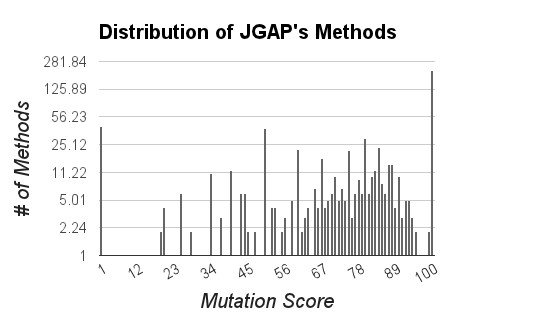
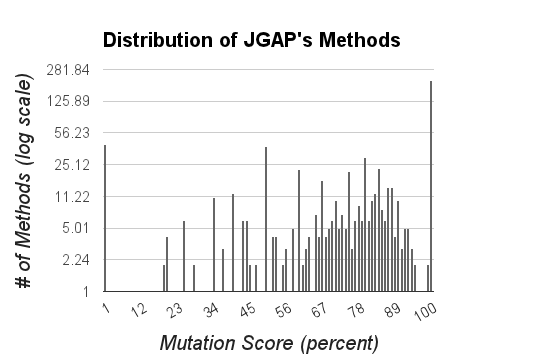
Address more comments on submission
Add:
 * Log scale and percent to distribution figures

Refactor:
 * References (months in proccedings, shorten words, etc...)
 * LaTeX file to address minor comments (rewordings, stuff not needed anymore)

diff --git a/doc/RAISE2012/RAISE2012.tex b/doc/RAISE2012/RAISE2012.tex
@@ -27,7 +27,7 @@ Oshawa, Ontario, Canada\\
 
 
 \begin{abstract}
-Traditionally mutation testing has been used to evaluate the effectiveness of test suites and provide confidence in the testing process. Mutation testing involves the creation of many versions of a program -- each with a single syntactic fault. A test suite is evaluated against these program versions (mutants) in order to determine the percentage of mutants a test suite is able to identify (mutation score). A major drawback of mutation testing is that even a small program may yield thousands of mutants and can potentially make the process cost prohibitive. To improve the performance and reduce the cost of mutation testing, we propose a machine learning approach to predict the mutation score based on source code and test suite metrics.
+Mutation testing has traditionally been used to evaluate the effectiveness of test suites and provide confidence in the testing process. Mutation testing involves the creation of many versions of a program each with a single syntactic fault. A test suite is evaluated against these program versions (mutants) in order to determine the percentage of mutants a test suite is able to identify (mutation score). A major drawback of mutation testing is that even a small program may yield thousands of mutants and can potentially make the process cost prohibitive. To improve the performance and reduce the cost of mutation testing, we propose a machine learning approach to predict mutation score based on a combination of source code and test suite metrics.
 \end{abstract}
 
 
@@ -36,49 +36,48 @@ Traditionally mutation testing has been used to evaluate the effectiveness of te
 
 \section{Introduction}
 \label{sec:introduction}
-Mutation testing traditionally has been used as a coverage technique to evaluate the effectiveness of test suites and provide confidence in the testing process~\cite{DLS78, OAL06, JH10}. For over 30 years, mutation has been applied to software written in programming languages including C~\cite{DM96, JH08}, Fortran~\cite{KO91}, Java~\cite{MKO02, BCD06} and more. Furthermore, mutation testing has also been applied to other non-programming artifacts such as formal specification languages~\cite{ABM98} and spreadsheets~\cite{AE09}.
+Mutation testing has traditionally been used as a coverage technique to evaluate the effectiveness of test suites and provide confidence in the testing process~\cite{DLS78, OAL06, JH10}. For over 30 years, mutation testing has been applied to software written in programming languages including C~\cite{DM96, JH08}, Fortran~\cite{KO91} and Java~\cite{MKO02, BCD06}. Furthermore, mutation testing has also been applied to non-programming artifacts such as formal specification languages~\cite{ABM98} and spreadsheets~\cite{AE09}.
 
 Mutation testing uses a set of \emph{mutation operators} to generate faulty versions of a program called \emph{mutants}. Mutation operators are created based on an existing fault taxonomy and each operator usually corresponds to a specific type of fault. A mutant is identical to the original program except that it contains a single mutation -- ``\emph{a single syntactic change that is made to a program statement.}''~\cite{KO91}. A test suite is evaluated against a set of mutants to determine the \emph{mutation score}. The mutation score is defined as the percentage of non-equivalent mutants that are detected (\emph{killed}) by a test suite. The better a test suite, the more mutants will be killed and thus the higher the mutation score.
 
-A major drawback of mutation testing is that even a small program may yield hundreds or thousands of mutants potentially making the process cost prohibitive in comparison to other coverage metrics such as statement or branch coverage. Several approaches have been proposed in the literature to improve mutation testing performance and scalability~\cite{OU00}:
+A major drawback of mutation testing is that even a small program may yield hundreds or thousands of mutants -- potentially making the process cost prohibitive in comparison to other coverage metrics such as statement or branch coverage. Three approaches have been proposed in the literature to improve mutation testing performance and scalability~\cite{OU00}:
 
-\textbf{``Do fewer'' approach:} this category of optimizations aim to decrease the computational cost of mutation testing by reducing the number of mutants that a test suite is evaluated against. The most popular example from this category is selective mutation -- the use of a subset of mutation operators that have been empirically shown to be as effective as using an entire set of operators~\cite{OLR+96}. Another example of a ``do fewer'' approach is to randomly sample mutants~\cite{Won93}.
+\begin{enumerate}
+  \item \textbf{``Do fewer'' approach:} this category of optimizations aim to decrease the computational cost of mutation testing by reducing the number of mutants that a test suite is evaluated against. The most popular example from this category is selective mutation -- the use of a subset of mutation operators that have been empirically shown to be as effective as using an entire set of operators~\cite{OLR+96}. Another example of a ``do fewer'' approach is to randomly sample mutants~\cite{Won93}.
 
-\textbf{``Do smarter'' approach:} this category of optimizations aim to decrease the cost of mutation testing by improving the actual mutation testing technique. For example, weak mutation \emph{``...is an approximation technique that compares the internal states of mutant and original program immediately after execution of the mutated portion of the code (instead of comparing the program output)''}~\cite{OU00}.
+  \item \textbf{``Do smarter'' approach:} this category of optimizations aim to decrease the cost of mutation testing by improving the actual mutation testing technique. For example, weak mutation \emph{``...is an approximation technique that compares the internal states of mutant and original program immediately after execution of the mutated portion of the code (instead of comparing the program output)''}~\cite{OU00}.
 
-\textbf{``Do faster'' approach:} this category of optimizations aim to reduce the cost of mutation testing by focusing on performance. For example, one ``do faster'' approach improves compilation time using schema-based mutation -- \emph{``...encodes all mutations into one source level program...''}~\cite{OU00}.
+  \item \textbf{``Do faster'' approach:} this category of optimizations aim to reduce the cost of mutation testing by focusing on performance. For example, one ``do faster'' approach improves compilation time using schema-based mutation -- \emph{``...encodes all mutations into one source level program...''}~\cite{OU00}.
+\end{enumerate}
 
-As an alternative to the above techniques, we propose a ``do fewer and smarter'' technique for mutation testing at a unit level.  When mutation testing is used for the creation or improvement of a test suite,  the test suite will often have to be applied to the mutants in an iterative fashion as tests are added, removed and modified. Furthermore, the effects on the mutation score after each iteration have to be observed. We propose to replace at least some of these intermediate test suite evaluations on mutants with mutation score prediction and thus decrease the number of mutants that have to be evaluated using a test suite. Our proposed approach uses machine learning to predict the mutation score based on a combination of source code and test suite metrics of the code unit under test.
+As an alternative to the above approaches, we propose a ``do fewer and smarter'' technique for mutation testing at the unit level.  When mutation testing is used for the creation or improvement of a test suite,  the test suite will often have to be applied to the mutants in an iterative fashion as tests are added, removed and modified. Furthermore, the effects on the mutation score after each iteration have to be observed. We propose to replace at least some of the mutation testing of intermediate tests with mutation score prediction and thus decrease the number of mutants that have to be evaluated using a test suite. Our proposed approach uses machine learning to predict the mutation score based on a combination of source code and test suite metrics of the code unit under test.
 
-In the Section~\ref{sec:background} we describe the machine learning technique, the mutation testing tool and the metrics gathering tools used in our research. In Section~\ref{sec:approach} we describe our overall approach to mutant score prediction. We also discuss the integration of the tools described in the previous section, into our approach. In Section~\ref{sec:case_study} we apply our approach to an open source project and discuss the effectiveness of our prediction based on this preliminary evaluation. Finally, in Sections~\ref{sec:related_work}~\&~\ref{sec:conclusions_future_work} we discuss related work, conclusions, and future work.
+Next, in Section~\ref{sec:background} we describe the machine learning technique, the mutation testing tool and the metrics gathering tools used in our research. In Section~\ref{sec:approach} we describe our overall approach to mutant score prediction. We also discuss the integration of the tools described in Section~\ref{sec:introduction}, into our approach. In Section~\ref{sec:case_study} we apply our approach to an open source project and discuss the effectiveness of our prediction based on this preliminary evaluation. Finally, in Sections~\ref{sec:related_work}~\&~\ref{sec:conclusions_future_work} we discuss related work, conclusions, and future work.
 
 
 \section{Background}
 \label{sec:background}
-In this section we describe the background techniques and tools used in our research. In particular, we discuss LIBSVM, support vector machine library, Javalanche, a mutation testing tool, the Eclipse Metrics Plugin, used for gathering source code metrics, and EMMA, used for acquiring test suite metrics. All tools were selected based on several criteria: (1) ability to execute command-line using a script, (2) ability to export output reports and (3) ability to fulfill the needs of our research.
+In this section we describe the background techniques and tools used in our research. In particular, we discuss LIBSVM (a support vector machine library), Javalanche (a mutation testing tool), the Eclipse Metrics Plugin (used for gathering source code metrics), and EMMA (used for acquiring test suite metrics). All tools were selected based on three criteria: (1) ability to execute command-line using a script, (2) ability to export output reports and (3) ability to fulfill the needs of our research.
 
 
 \subsection{LIBSVM -- a library for support vector machines}
 \label{subsec:libsvm}
-A support vector machine (SVM) is an example of a linear discrimination machine learning technique and assumes that ``...\emph{instances of a class are linearly separable from instances of other classes}''~\cite{ALP04}. In other words, a SVM learns the linear discriminant of a set of data. SVMs are capable of learning how a set of features inform the classification of a data item. It can also be trained on known data items (in which the features and category are present), and then used to predict the category of  unknown data items (in which only the features are present).
+A support vector machine (SVM) is an example of a linear discrimination machine learning technique and assumes that ``...\emph{instances of a class are linearly separable from instances of other classes}''~\cite{ALP04}. A SVM is capable of learning how a set of features inform the classification of a data item. It can also be trained on known data items (in which the features and category are present), and then used to predict the category of  unknown data items (in which only the features are present).
 
-Traditionally, SVMs have been used for two-group classification problems~\cite{CV95} but have also been generalized to \emph{n}-group classification problems. In a two-group classification problem this approach identifies an optimal separating hyperplane that divides the set of data into two groups based on a set of support vectors (i.e., features). In other words, the goal is to maximize the distance from the closest data points on both sides of the hyperplane to the hyperplane itself~\cite{ALP04}.
+Traditionally, SVMs have been used for two-group classification problems~\cite{CV95} but have also been generalized to \emph{n}-group classification problems. In a two-group classification problem an optimal separating hyperplane is identified that divides the set of data into two groups based on a set of support vectors (i.e., features). In other words, the goal is to maximize the distance from the closest data points on both sides of the hyperplane to the hyperplane itself~\cite{ALP04}.
 
-In our research we use LIBSVM (version 3.11), a SVM library capable of solving \emph{n}-group classification problems~\cite{CL11}. LIBSVM was chosen because it provides a command-line interface that could be easily integrated with the other tools used in our approach.
+In our research we use LIBSVM (version 3.11), a SVM library capable of solving \emph{n}-group classification problems~\cite{CL11}.
 
 
 \subsection{Javalanche -- a mutation testing tool for Java}
 \label{subsec:javalanche}
-Mutation testing has previously been described in Section~\ref{sec:introduction}. In our research we use Javalanche (version 0.4), a mutation testing tool for Java~\cite{SZ09} that applies a subset of the method-level mutation operators to source code. Method-level operators are the most common set of mutation operators applied to procedural programming languages and each method-level mutation defines a syntactic change to an operator, operand or statement in a program. Javalanche uses a subset of the method-level mutation operators (replace constant, negate jump, arithmetic replace, remove call, replace variable, absolute value, unary operator) . These selected operators provide a close approximation of the effectiveness of using the entire set of method-level operators at a reduced cost~\cite{OLR+96}.
+Mutation testing has previously been described in Section~\ref{sec:introduction}. In our research we use Javalanche (version 0.4), a mutation testing tool for Java~\cite{SZ09} that applies a subset of the method-level mutation operators. Method-level operators are the most common set of mutation operators applied to procedural programming languages and each method-level mutation defines a syntactic change to an operator, operand or statement in a program. Javalanche uses a subset of the method-level mutation operators (replace constant, negate jump, arithmetic replace, remove call, replace variable, absolute value, unary operator). These selected operators provide a close approximation of the effectiveness of using the entire set of method-level operators at a reduced cost~\cite{OLR+96}.
 
 We chose Javalanche for our research because it is customizable and extensible, therefore allowing us to modify Javalanche to calculate unit mutation scores and output a richer set of results. We plan to further take advantage of Javalanche's extensibility in the future by adding object-oriented mutation operators. Other benefits of Javalanche include: full integration with JUnit and the use of mutation schemas to improve performance.
 
 \subsection{Eclipse Metrics Plugin -- a source code metrics tool}
 \label{subsec:Metrics}
-Source code metrics measure knowledge of a project's source code through the use of code analysis. Source code metrics give insight into various aspects of the source code including it's complexity, size, coupling, cohesion as well as object-oriented attributes~\cite{SCE05,McCa76,Kan02,HWY09,Hend95,SRD12}.
-
-In our research, we use the Eclipse Metrics Plugin (version 1.3.8.20100730-001) to acquire source code metrics of the methods and classes under test~\cite{Metrics}. We selected this tool as it provides a comprehensive set of metrics for Java programs.
-We use Eclipse Metrics Plugin to collect metrics for feature sets \ding{172}, \ding{174} and \ding{175} from Table~\ref{tab:metrics}.
+Source code metrics give insight into various aspects of the source code including it's complexity, size, coupling, cohesion as well as object-oriented attributes~\cite{SCE05,McCa76,Kan02,HWY09,Hend95,SRD12}. In our research, we use the Eclipse Metrics Plugin (version 1.3.8.20100730-001) to acquire source code metrics of the method- and class-level code unit under test~\cite{Metrics}. We selected this tool as it provides a comprehensive set of metrics for Java programs (see feature sets \ding{172} and \ding{174} from Table~\ref{tab:metrics}).
 
 \begin{table}[!t]
   \centering
@@ -134,7 +133,7 @@ We use Eclipse Metrics Plugin to collect metrics for feature sets \ding{172}, \d
     \hline ANOT & Average of NOT of methods & Class & \ding{176} \\
     \hline
   \end{tabular}
-  \caption{The set of metrics used in our research. Each set of metrics correspond to a particular feature set (\ding{172}: Source Code Metrics, \ding{173}: Coverage Metrics, \ding{174}: Accumulated Source Code Metrics, \ding{175}: Accumulated Test Case Metrics, \ding{176}: Number of Tests Cases.)}
+  \caption{The set of metrics used in our research. Organized by feature set (\ding{172}: Source Code Metrics, \ding{173}: Coverage Metrics, \ding{174}: Accumulated Source Code Metrics, \ding{175}: Accumulated Test Case Metrics, \ding{176}: Number of Tests Cases.)}
   \label{tab:metrics}
   \vspace{2mm}
   \hrule
@@ -143,17 +142,17 @@ We use Eclipse Metrics Plugin to collect metrics for feature sets \ding{172}, \d
 
 \subsection{EMMA -- a test suite coverage tool}
 \label{subsec:emma}
-Test suite metrics can be gathered using similar technique to those used in the gathering of source code metrics. In fact, since we focus on JUnit test cases (which are Java classes) we can actually use the Eclipse Metrics Plugin to gather some of the test suite metrics. To gather other test suite metrics we use the tool EMMA (version 2.0.5312) which is capable of determining the statement and basic block coverage of a test suite~\cite{EMMA}. We use Emma to acquire metrics for feature set \ding{173} and \ding{176} from Table~\ref{tab:metrics}.
+Test suite metrics can be gathered using similar technique to those used in the gathering of source code metrics. In fact, since we focus on JUnit test cases (which are Java classes) we can actually use the Eclipse Metrics Plugin to gather some of the test suite metrics (see feature set \ding{175} from Table~\ref{tab:metrics}). To gather other test suite metrics we use EMMA (version 2.0.5312) which is capable of determining the statement and basic block coverage of a test suite~\cite{EMMA}. We use EMMA to acquire metrics for feature sets \ding{173} and \ding{176} from Table~\ref{tab:metrics}.
 
 
 \section{Approach}
 \label{sec:approach}
-We now describe our approach to determining the mutation score of a unit under test based on source code and test suite metrics. In Section~\ref{subsec:training} we outline the process for collecting our initial data and training the SVM (see Figure~\ref{fig:process}) and in Section~\ref{subsec:prediction} we describe how to use the SVM for prediction and cross-validation.
+We now describe our SVM approach to determining the mutation score of a unit under test based on source code and test suite metrics. In Section~\ref{subsec:training} we outline the process for collecting our initial data and training the SVM (see Figure~\ref{fig:process}) and in Section~\ref{subsec:prediction} we describe how to use the SVM for prediction.
 
 \begin{figure}[!t]
   \centering
-  \includegraphics[width=7cm]{figures/process.pdf}
-  \caption{Our training process -- using source code and test suite metrics to determine mutation score for a unit under test.}
+  \includegraphics[width=7.8cm]{figures/process.pdf}
+  \caption{Our SVM training process.}
   \label{fig:process}
   \vspace{2mm}
   \hrule
@@ -162,25 +161,30 @@ We now describe our approach to determining the mutation score of a unit under t
 
 \subsection{Training}
 \label{subsec:training}
-The input that our training process requires is a set of units of code in which each unit of code has a corresponding set of unit test cases. Both the units under test and test cases (i.e., JUnit tests) are Java source files.
+Our training process requires as input a set of units of code and for each code unit a corresponding set of unit test cases. Both the code units under test and test cases (i.e., JUnit tests) are Java source files.
 
 The first step of our process is to collect the two types of data required to train the SVM:
 
-\textbf{Category Data:} Javalanche is used to generate the mutants of all units in the project under test. In addition to mutant generation, Javalanche also performs the mutation testing by executing the required tests for each mutant, although it currently does not exclude equivalent mutants from the analysis. For our research, we added a new analyzer component to Javalanche that outputs an intermediate text file of mutation scores of the covered units (methods and classes). This intermediate text file also contains a list of every test that was executed for each method.
+\begin{itemize}
+  \item \textbf{Category Data:} Javalanche is used to generate the mutants of all code units in the project under test and to perform the mutation testing by executing the required tests for each mutant. It should be noted that currently our Javalanche configuration does not exclude equivalent mutants from the analysis. For our research, we added a new analyzer component to Javalanche that outputs an intermediate text file of mutation scores of the covered units (methods and classes). This intermediate file also contains a list of tests that executed for each method.
 
-\textbf{Feature Data:} The feature data is comprised of the source code and test suite metrics. We use the tools described in Section~\ref{sec:background} to gather the metrics of the units of code under test and the unit test cases. The following will references the metric sets from in Table~\ref{tab:metrics}. We gather metric set \ding{172} using the Eclipse Metric Plugin and we also accumulate the test code units metrics to form metric set \ding{175}. EMMA is used to collect metric set \ding{173} and \ding{176} by determining the coverage of each method by only examining the set of executed tests for each method-level code unit. All the tools produce intermediate files of data, which we combine together into a database. As classes are composed of one-to-many methods, we aggregate and merge metrics from the contained methods to generate the set of accumulated class metrics (see set \ding{174} in Table~\ref{tab:metrics}).
+  \item \textbf{Feature Data:} The feature data is comprised of the source code and test suite metrics (see Table~\ref{tab:metrics} for feature sets referenced in the following text). By using the Eclipse Metric Plugin we collect source code metrics (set \ding{172} and \ding{174}) for both method- and class-level code units. We also collect the test suite metrics (set \ding{175}) of each unit's test cases using the Eclipse Metric Plugin. Test suite coverage metrics (set \ding{173} and \ding{176}) are obtained using the EMMA tool.
 
-Next, we create a .libsvm file containing the category and feature data from the database. Instead of predicting a specific mutation score percentage, we categorize all mutation scores as \textit{low, medium, high} which reduces the mutation score prediction to a three-group classification problem. The ranges are determined based on the distribution of the mutation scores in our training data (further explained in Section~\ref{subsec:results}). Finally, the .libsvm file is passed into LIBSVM to complete the training process.
+%  For the source code we gather
+  % We gather metric set \ding{172} using the Eclipse Metric Plugin and we also accumulate the test code units metrics to form metric set \ding{175}. EMMA is used to collect metric set \ding{173} and \ding{176} by determining the coverage of each method by only examining the set of executed tests for each method-level code unit. All the tools produce intermediate files of data, which we combine together into a database. As classes are composed of one-to-many methods, we aggregate and merge metrics from the contained methods to generate the set of accumulated class metrics (see set \ding{174} in Table~\ref{tab:metrics}).
+\end{itemize}
+
+Next, we create a .libsvm file containing the category and feature data from the database. Instead of predicting a specific mutation score percentage, we categorize all mutation scores as \textit{low, medium, high} which reduces the mutation score prediction to a three-group classification problem. The ranges of values in each category are determined based on the distribution of the mutation scores in our training data (further explained in Section~\ref{subsec:results}). Finally, the .libsvm file is passed into LIBSVM to complete the training process.
 
 
 \subsection{Prediction}
 \label{subsec:prediction}
-Once we have trained the SVM, we can then use the SVM for prediction. We can predict the category of an unknown unit of code by first extracting the source code and test suite metrics. The extracted features are then passed into the SVM which will then be assigned a category of \textit{low, medium, high} for the mutation score.  Currently, our approach only predicts mutation scores within a project. That is, the training and prediction data both come from the same project repository.
+Once we have trained the SVM, we can then use the SVM for prediction. We can predict the mutation score category of an unknown unit of code by first determining the source code and test suite metrics. The metrics (i.e., features) are passed into the SVM which will then assign a category of \textit{low, medium, high} for the mutation score.  Currently, our approach only predicts mutation scores within a project. That is, the training and prediction data both come from the same project repository.
 
 
 \section{Case Study: JGAP}
 \label{sec:case_study}
-A preliminary evaluation of our mutation score predictor was preformed on JGAP (version 3.6.1), an open source genetic algorithm and genetic programming framework for Java, which was selected due to its comprehensive JUnit test suite~\cite{JGAP}. We decided to use an open source project that is large enough to contain many mutants, as well as a mature test suite. Basic source code metrics for JGAP are provided in Table~\ref{tab:jgap_source_stats}. JGAP contains 1387\footnote{JGAP has 1412 JUnit test cases in total, however 25 of the tests caused errors in the Javalanche tool and were removed.} usable JUnit test cases. For JGAP Javalanche generated 32031 mutants using the method-level mutation operators (see Section~\ref{subsec:javalanche}) of which only 18378 were actually covered by JGAP's test suite. We only considered the set of covered mutations in our approach as the mutations not covered contained no associated test cases. Considering only the covered mutants, JGAP's test suite killed 13698 mutants in 688 minutes and 43 seconds\footnote{Ran on Intel Core i7-870 processor @ 2.93 GHz, with no parallel task execution in Javalanche} resulting in an overall mutation score of 74.53\%.
+A preliminary evaluation of our mutation score predictor was preformed on JGAP (version 3.6.1), an open source genetic algorithm and genetic programming framework for Java, which was selected due to its comprehensive and mature JUnit test suite~\cite{JGAP}. Basic source code metrics for JGAP are provided in Table~\ref{tab:jgap_source_stats}. JGAP contains 1387\footnote{JGAP has 1412 JUnit test cases in total, however 25 of the tests caused errors in the Javalanche tool and were removed.} usable JUnit test cases. For JGAP, Javalanche generated 32031 mutants using the method-level mutation operators (see Section~\ref{subsec:javalanche}) of which only 18378 were actually covered by JGAP's test suite. We only considered the set of covered mutations in our approach as the mutations not covered contained no associated test cases. Considering only the covered mutants, JGAP's test suite killed 13698 mutants in 688 minutes and 43 seconds\footnote{Results from Javalanche on Intel Core i7-870 processor @ 2.93 GHz (with no parallel task execution).} resulting in an overall mutation score of 74.53\%.
 
 \begin{table}[!t]
   \centering
@@ -204,19 +208,17 @@ A preliminary evaluation of our mutation score predictor was preformed on JGAP (
 
 \subsection{Results}
 \label{subsec:results}
-We gathered 695 method-level data points and 127 class-level data points from JGAP. We first decided to view the distribution of JGAP's mutation scores, which are shown in Figure~\ref{fig:mutation_distributions}. It is clearly obvious that the distribution for both classes and methods are more heavily dense for high mutation scores.
+We gathered 695 method-level data points and 127 class-level data points from JGAP. We first decided to view the distribution of JGAP's mutation scores (see Figure~\ref{fig:mutation_distributions}). It is clearly obvious that the distribution for both classes and methods are more heavily dense for high mutation scores. As discussed in Section~\ref{subsec:training} we categorize the collected data into three groups of \textit{low, medium, high} mutation scores. Ideally we would have liked to have sufficient data coverage, such that we can use simple categories such as 0\%--33\% (\textit{low}), 33\%-66\% (\textit{medium)} and 66\%-100\% (\textit{high}). Based on the distribution of mutation scores in JGAP we instead decided to categorize our data such that one third of our data fall into each category (see Table~\ref{tab:results_details}).
 
 \begin{figure*}[!t]
   \centering
-  \includegraphics[width=8cm]{figures/class_distribution.png}
-  \includegraphics[width=8cm]{figures/method_distribution.png}
-  \caption{The mutation score distribution (in log scale) of JGAP's classes and methods that can be used for training.}
+  \includegraphics[width=9cm]{figures/class_distribution.png}
+  \includegraphics[width=9cm]{figures/method_distribution.png}
+  \caption{The mutation score distribution of JGAP's classes and methods that can be used for training.}
   \label{fig:mutation_distributions}
   \vspace{2mm}
   \hrule
 \end{figure*}
-
-As mentioned in Section~\ref{subsec:training} we categorize the collected data into three groups of \textit{low, medium, high} based on their mutation scores. Ideally we would like to have sufficient data coverage for the complete range of mutation scores, such that we can train the SVM using simple categories such as 0\%--33\% (\textit{low}), 33\%-66\% (\textit{medium)} and 66\%-100\% (\textit{high}). Given our situation of not being able to split up the collected data easily across the mutation scores we instead decided to categorize our data such that one third of our data will fall into each category. This results in varying mutation score ranges for each category for class- and method-level data as shown in Table~\ref{tab:results_details}.
 
 \begin{table}[!t]
   \centering
@@ -230,13 +232,13 @@ As mentioned in Section~\ref{subsec:training} we categorize the collected data i
     \hline high & 83.25\% -- 100.00\% & 90.90\% -- 100.00\% \\
     \hline
   \end{tabular}
-  \caption{The mutation score ranges that equally partition the datasets into three categories.}
+  \caption{The mutation score ranges that equally partition the datasets into three mutation score categories.}
   \label{tab:results_details}
   \vspace{2mm}
   \hrule
 \end{table}
 
-\begin{figure}[!h]
+\begin{figure}[!t]
   \scriptsize
   \begin{tikzpicture}[
   box/.style={draw,rectangle,minimum size=0.5cm,text width=1.25cm,align=center}]
@@ -289,12 +291,14 @@ As mentioned in Section~\ref{subsec:training} we categorize the collected data i
   \hrule
 \end{figure}
 
-To evaluate our results we decided to perform a 10-fold cross-validation of our datasets due to the small amount of data acquired from this experiment. Effectively, this splits up our dataset into \emph{10} equal-sized partitions and the SVM internally train on $\emph{9}$ sets and predict the last. This process is repeated \emph{10} times where a different partition is selected for prediction each time. Finally all the individual prediction accuracies are tallied and averaged for a cross-validation accuracy of \emph{10}-folds. Our achieved cross-validation accuracy of JGAP (with all features from Table~\ref{tab:metrics}) was 57.48\% for class mutation scores and 55.11\% for method mutation scores. Figure~\ref{fig:confusion_matrix} illustrates the confusion matrix of the predicted values made by the SVM for our three categories. It is also worth mentioning that our achieved accuracy outperforms random (which has an accuracy of 33.33\% given our category distributions) by 24.15\% for classes and 21.78\% for methods. We re-conducted the cross-validation using subsets of our feature set and found that the combination of features slightly improves the prediction accuracy (see Table~\ref{tab:subset_accuracy}). A further analysis of the acquired metrics used as the feature set in LIBSVM would prove useful in understanding the relevant and important metrics in mutation score prediction.
+Due to the small amount of data acquired from this experiment we decided to evaluate our results by performing a 10-fold cross-validation of our datasets. Effectively, this divides our dataset into \emph{10} equal-sized partitions and the SVM trains on $\emph{9}$ sets and predicts on the last. This process is repeated \emph{10} times where a different partition is selected for prediction each time. Finally all the individual prediction accuracies are tallied and averaged for a cross-validation accuracy of \emph{10}-folds. Our achieved cross-validation accuracy of JGAP (with all features from Table~\ref{tab:metrics}) was 57.48\% for class mutation scores and 55.11\% for method mutation scores. Figure~\ref{fig:confusion_matrix} illustrates a confusion matrix of the predicted values created from the SVM data for our three categories. It is also worth mentioning that our achieved accuracy outperforms random (which has an accuracy of 33.33\% given our category distributions) by 24.15\% for classes and 21.78\% for methods.
+
+We also conducted the cross-validation using subsets of our feature set and found that the combination of both source code and test suite features slightly improves the prediction accuracy (see Table~\ref{tab:subset_accuracy}).
 
 \begin{table}[!t]
   \centering
   \rowcolors{2}{gray!30}{gray!20}
-  \begin{tabular}{|l|r|r|}
+  \begin{tabular}{|c|r|r|}
     \hline
     \rowcolor[RGB]{169,196,223}
     \textbf{Set} & \textbf{Class Accuracy} & \textbf{Method Accuracy} \\
@@ -303,9 +307,10 @@ To evaluate our results we decided to perform a 10-fold cross-validation of our 
     \hline \ding{174} & 45.67\% & 49.78\% \\
     \hline \ding{175} & 54.33\% & 33.96\% \\
     \hline \ding{176} & 44.88\% & 45.47\% \\
+    \hline\ \textbf{\ding{172} \ding{173} \ding{174} \ding{175} \ding{176}} & \textbf{57.48\%} & \textbf{55.11\%} \\
     \hline
   \end{tabular}
-  \caption{The cross validation (10-folds) accuracy of each feature subset of all the features. The sets reference the features from Table~\ref{tab:metrics}.}
+  \caption{The cross validation (10-folds) accuracy of each feature subset (see  Table~\ref{tab:metrics}) and all of five feature subsets combined.}
   \label{tab:subset_accuracy}
   \vspace{2mm}
   \hrule
@@ -319,11 +324,9 @@ The use of software metrics to locate faults in source code has been well resear
 
 \section{Conclusions \& Future Work}
 \label{sec:conclusions_future_work}
-Our technique for predicting mutation score using source code and test suite metrics achieved an accuracy of 57.48\% and 55.11\% for classes and methods respectively -- outperforming random. These results have not been optimized and we believe that with further enhancements and a more tailored feature set we may be able to increase our prediction accuracy.
+Our technique for predicting mutation score using source code and test suite metrics outperforms random with an achieved accuracy of 57.48\% and 55.11\% with the JGAP data, for classes and methods respectively. These results have not been optimized and we believe that with further enhancements and a more tailored feature set we may be able to increase the prediction accuracy.
 
-Our approach currently only used a subset of the traditional mutation operators. Obviously there are some limitations of this, we are missing a whole class of mutation operators that operator on object-oriented aspects of the system under test. We plan to address this issue in future work by extending Javalanche to include more mutation operators.
-
-Currently we have applied our predictive technique to a single open source project -- JGAP. Additionally, we performed training and prediction from the same project. As stated by Kitchenham and Mendes \textit{``It is invalid to select one or two datasets to `prove' the validity of a new technique because we cannot be sure that, of the many published datasets, those chosen are the only ones that favour the new technique''}~\cite{KM09}. Thus, we plan to evaluate more open source projects using our prediction technique to better assess the prediction accuracy. With more data we plan to investigate whether cross-project models are valid for mutation score prediction. We would like to consider projects with more mutation scores to explore the variation in prediction accuracy between strong and weak test suites. Finally by considering more projects we can also explore the validity of the proposed technique.
+Despite the promising initial results there is an obvious threat to external validity since we have applied our predictive technique to a single open source project -- JGAP. Additionally, we performed training and prediction from the same project. As stated by Kitchenham and Mendes \textit{``It is invalid to select one or two datasets to `prove' the validity of a new technique because we cannot be sure that, of the many published datasets, those chosen are the only ones that favour the new technique''}~\cite{KM09}. Thus, we plan to evaluate more open source projects using our prediction technique to better assess the prediction accuracy. With more data we plan to investigate whether cross-project models are valid for mutation score prediction. We would also like to consider projects with more varied mutation scores to explore the variation in prediction accuracy between strong and weak test suites. A final area of future work is to expand the set of mutation operators used to include object oriented and concurrency operators.
 
 
 \bibliographystyle{IEEEtran}
